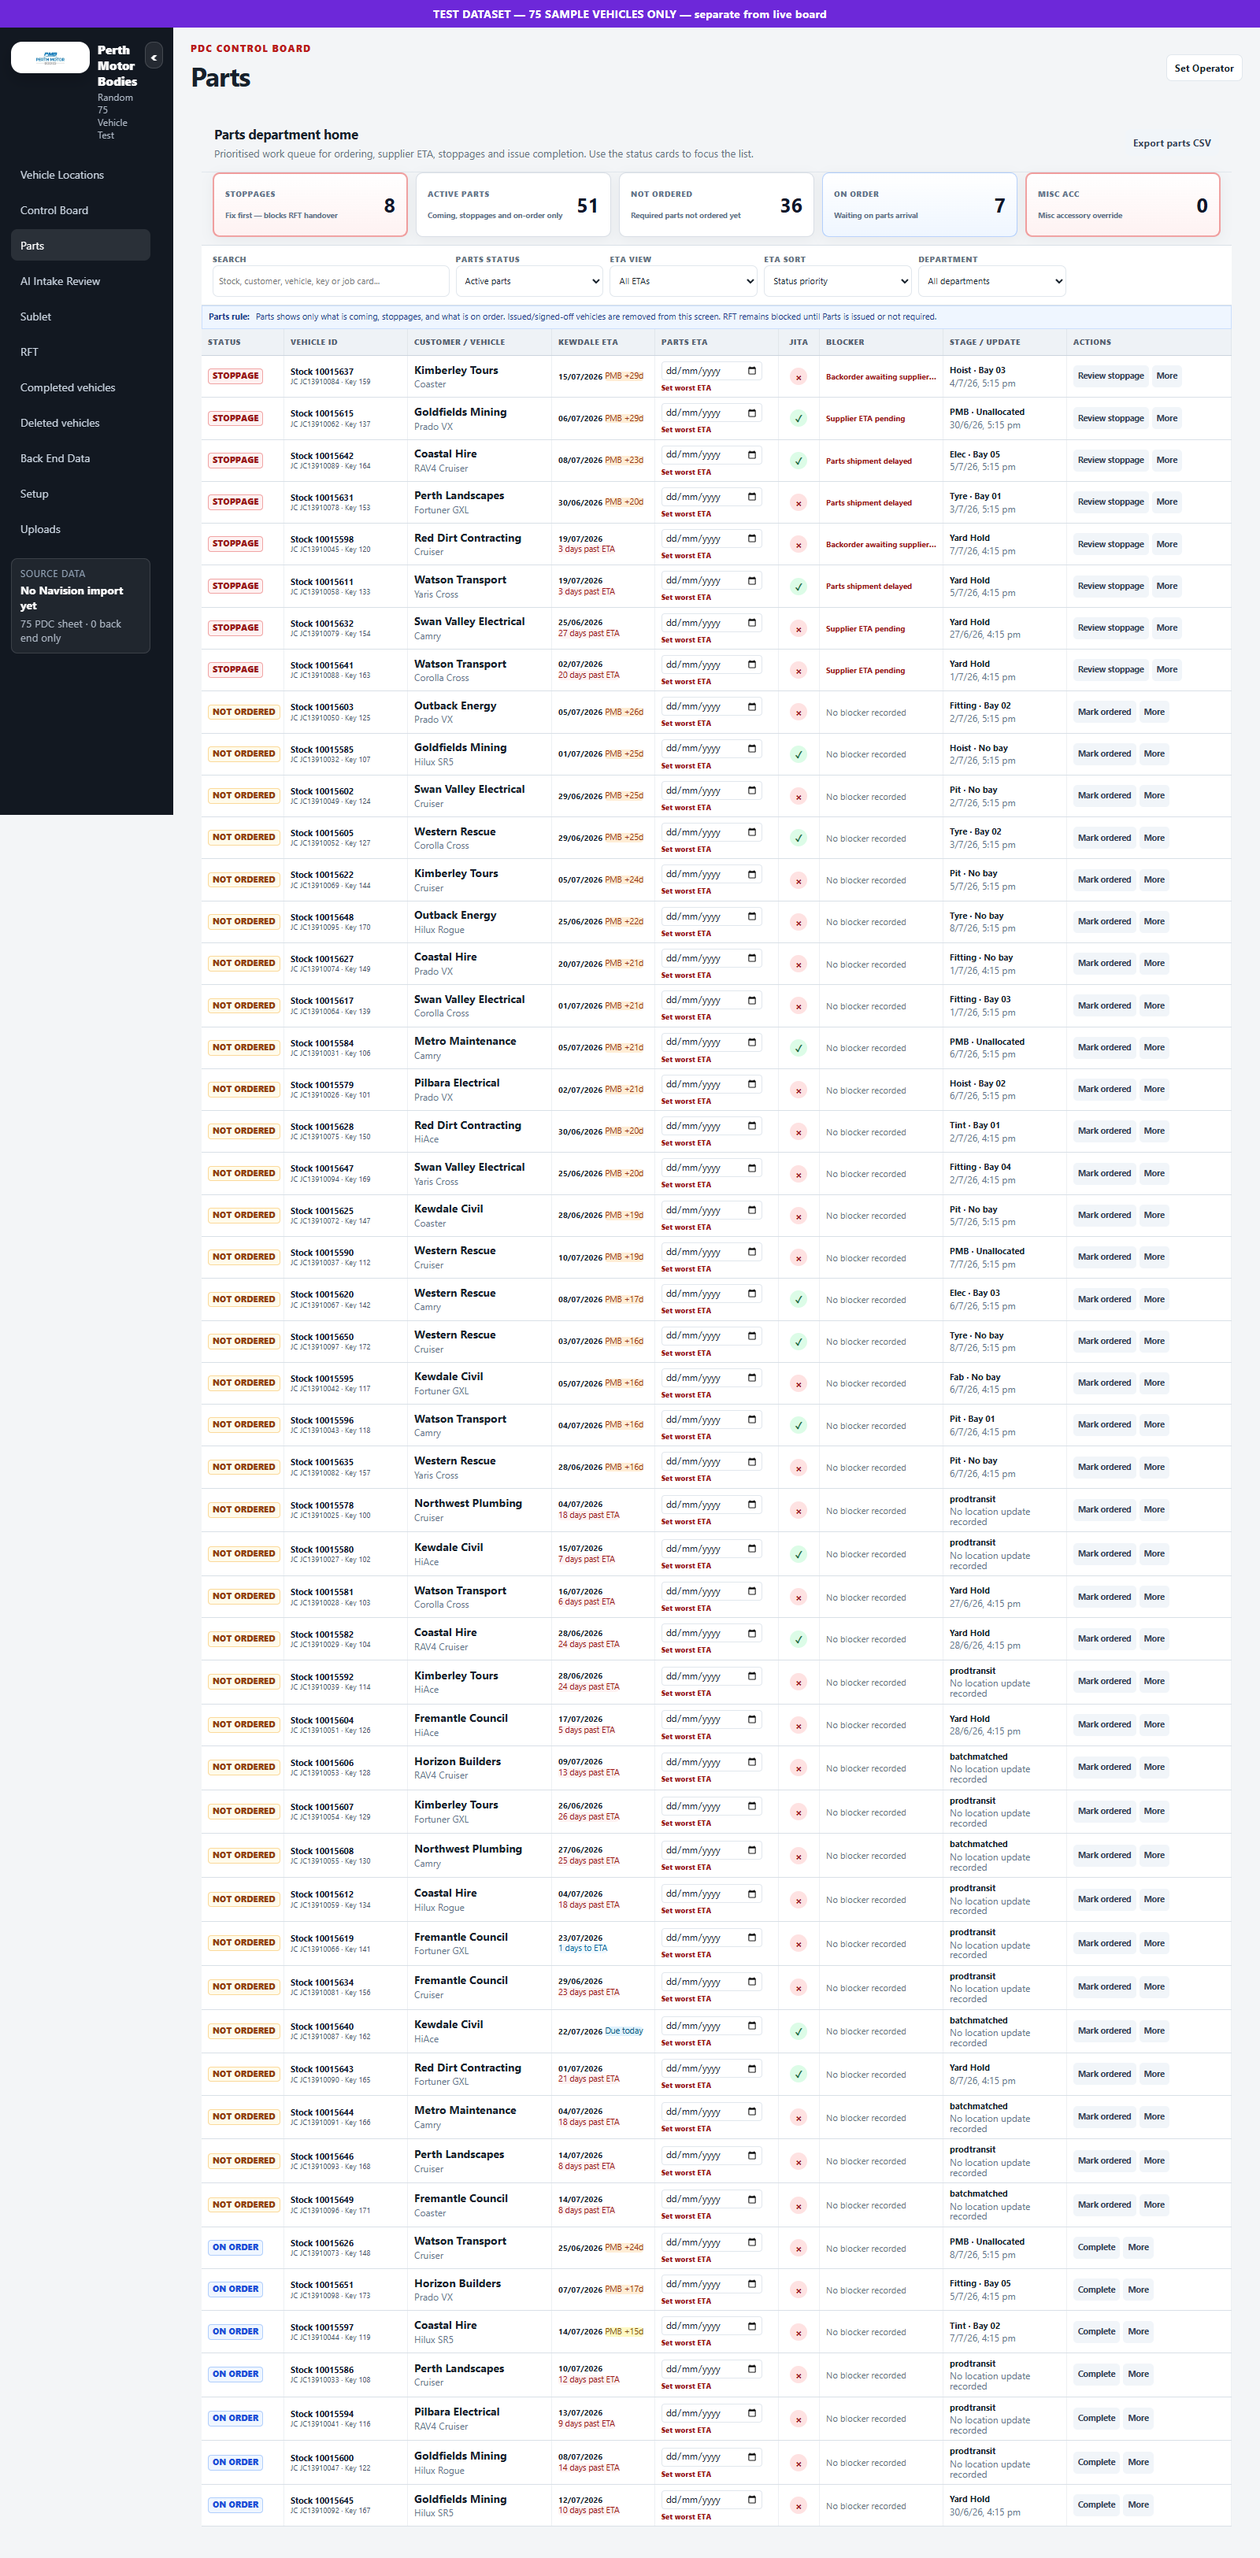
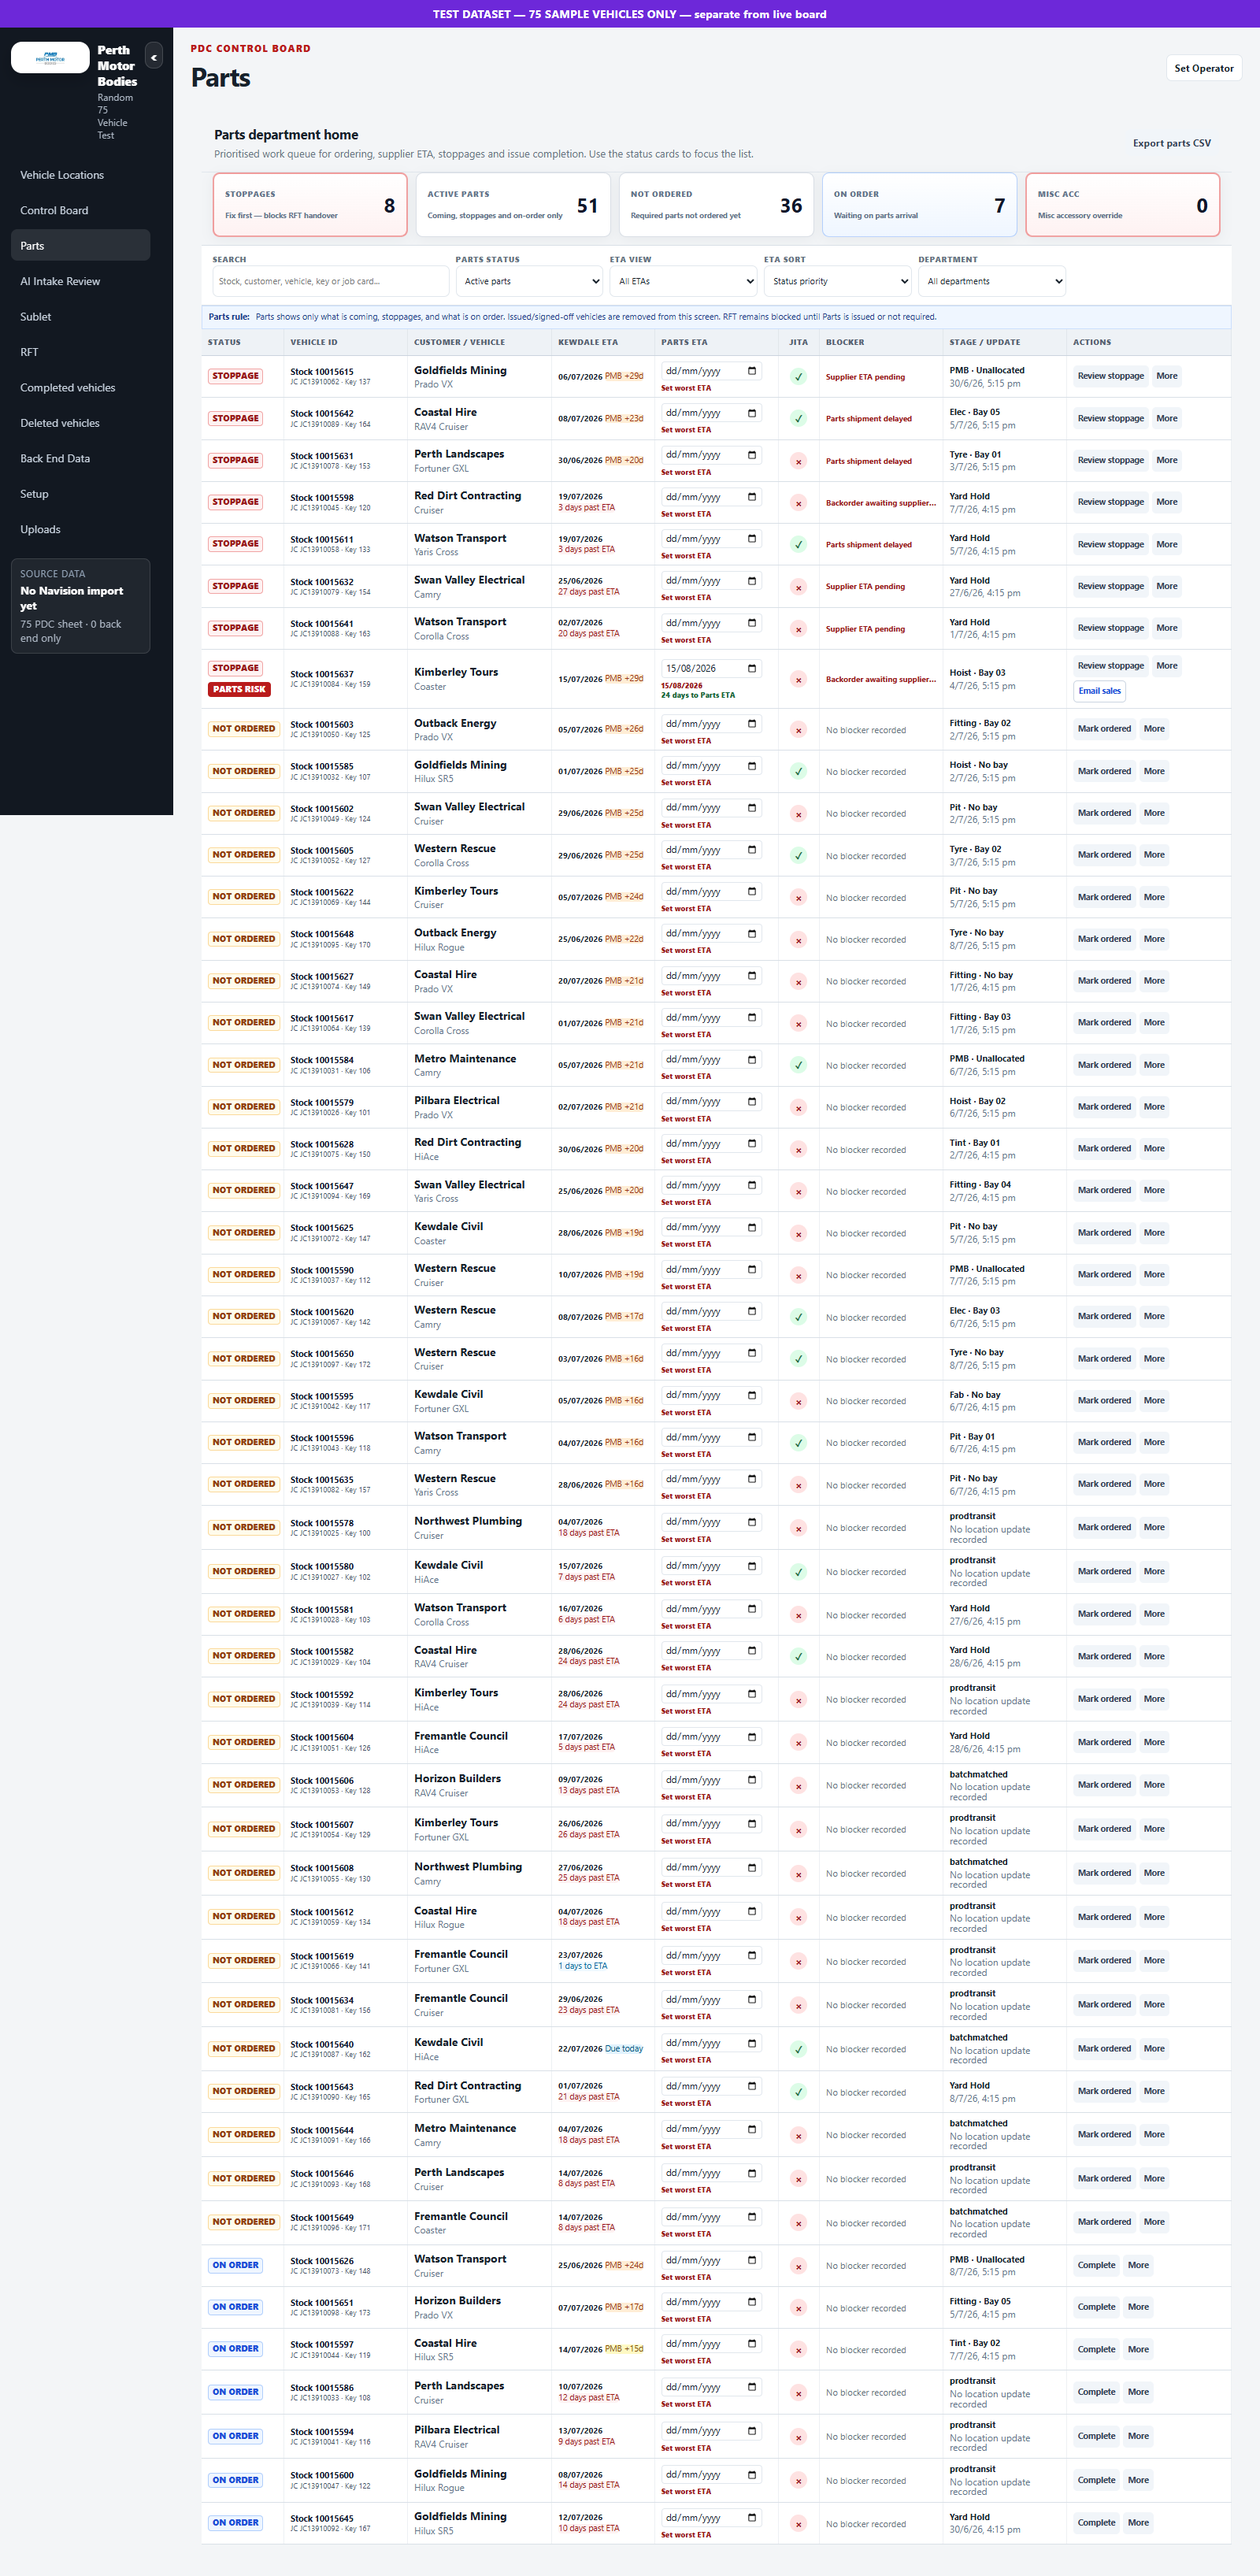
fix: close operational readiness review findings

diff --git a/scripts/test_operational_ui_regression.js b/scripts/test_operational_ui_regression.js
@@ -11,6 +11,10 @@ const views = ['dashboard','workflow','parts','emailreview','sublet','rft','comp
     const errors = [];
     page.on('pageerror', error => errors.push(String(error.message || error)));
     await page.goto(url, { waitUntil: 'networkidle', timeout: 60000 });
+    await page.evaluate(() => {
+      const vehicle = typeof partsDepartmentRows === 'function' ? partsDepartmentRows()[0] : null;
+      if (vehicle) vehicle.pdcPartsWorstEta = '2026-08-15';
+    });
     for (const view of views) {
       await page.locator(`.nav-item[data-view="${view}"]`).click();
       await page.waitForFunction(expected => document.querySelector('.view.active')?.id === expected, view);
@@ -18,15 +22,28 @@ const views = ['dashboard','workflow','parts','emailreview','sublet','rft','comp
         const active = document.querySelector('.view.active');
         const partsWrap = expected === 'parts' ? document.querySelector('.parts-table-wrap') : null;
         const wrapStyle = partsWrap ? getComputedStyle(partsWrap) : null;
+        const partsCells = expected === 'parts' ? [...document.querySelectorAll('.parts-queue-row td')] : [];
+        const emailSales = expected === 'parts' ? document.querySelector('[data-parts-eta-email]') : null;
+        const statusOverlap = expected === 'parts' ? [...document.querySelectorAll('.parts-queue-row td:first-child')].some(cell => {
+          const pill = cell.querySelector('.parts-status-pill');
+          if (!pill) return false;
+          return pill.getBoundingClientRect().right > cell.getBoundingClientRect().right + 1;
+        }) : false;
         return {
           view: active?.id || '',
           bodyHorizontalOverflow: Math.max(document.body.scrollWidth, document.documentElement.scrollWidth) - document.documentElement.clientWidth,
           partsNestedVerticalScroll: Boolean(partsWrap && partsWrap.scrollHeight > partsWrap.clientHeight + 1 && /auto|scroll/.test(wrapStyle.overflowY)),
+          partsCellOverflow: partsCells.reduce((max, cell) => Math.max(max, cell.scrollWidth - cell.clientWidth), 0),
+          partsStatusOverlap: statusOverlap,
+          emailSalesAtRowEnd: Boolean(emailSales && emailSales.closest('td') === emailSales.closest('tr')?.lastElementChild),
           emptyActiveView: !active || active.getBoundingClientRect().height < 60,
         };
       }, view);
       if (state.bodyHorizontalOverflow > 2) throw new Error(`${viewport.width}px ${view}: page overflows horizontally by ${state.bodyHorizontalOverflow}px`);
       if (state.partsNestedVerticalScroll) throw new Error(`${viewport.width}px Parts: nested vertical table scrolling remains`);
+      if (state.partsCellOverflow > 1) throw new Error(`${viewport.width}px Parts: table cell content overflows by ${state.partsCellOverflow}px`);
+      if (state.partsStatusOverlap) throw new Error(`${viewport.width}px Parts: status pill overlaps the next column`);
+      if (view === 'parts' && !state.emailSalesAtRowEnd) throw new Error(`${viewport.width}px Parts: compact Email sales action is not demonstrated at row end`);
       if (state.emptyActiveView) throw new Error(`${viewport.width}px ${view}: active view is unexpectedly empty`);
       results.push({ viewport: viewport.width, ...state });
     }

diff --git a/styles.css b/styles.css
@@ -11583,15 +11583,15 @@ html[data-row-width="xl"] {
   isolation: auto;
 }
 .parts-queue-table { min-width: 0; width: 100%; table-layout: fixed; }
-.parts-queue-table th:nth-child(1), .parts-queue-table td:nth-child(1) { width: 8%; }
-.parts-queue-table th:nth-child(2), .parts-queue-table td:nth-child(2) { width: 12%; }
-.parts-queue-table th:nth-child(3), .parts-queue-table td:nth-child(3) { width: 14%; }
+.parts-queue-table th:nth-child(1), .parts-queue-table td:nth-child(1) { width: 11.5%; }
+.parts-queue-table th:nth-child(2), .parts-queue-table td:nth-child(2) { width: 11%; }
+.parts-queue-table th:nth-child(3), .parts-queue-table td:nth-child(3) { width: 11%; }
 .parts-queue-table th:nth-child(4), .parts-queue-table td:nth-child(4) { width: 10%; }
-.parts-queue-table th:nth-child(5), .parts-queue-table td:nth-child(5) { width: 12%; }
+.parts-queue-table th:nth-child(5), .parts-queue-table td:nth-child(5) { width: 15%; }
 .parts-queue-table th:nth-child(6), .parts-queue-table td:nth-child(6) { width: 44px !important; }
-.parts-queue-table th:nth-child(7), .parts-queue-table td:nth-child(7) { width: 12%; }
-.parts-queue-table th:nth-child(8), .parts-queue-table td:nth-child(8) { width: 12%; }
-.parts-queue-table th:nth-child(9), .parts-queue-table td:nth-child(9) { width: 16%; }
+.parts-queue-table th:nth-child(7), .parts-queue-table td:nth-child(7) { width: 10.5%; }
+.parts-queue-table th:nth-child(8), .parts-queue-table td:nth-child(8) { width: 11%; }
+.parts-queue-table th:nth-child(9), .parts-queue-table td:nth-child(9) { width: 14%; }
 .parts-queue-row > td { height: 46px; padding: 5px 7px !important; }
 .parts-action-group {
   min-width: 0;
@@ -11621,8 +11621,19 @@ html[data-row-width="xl"] {
   .parts-queue-table { font-size: .67rem; }
   .parts-queue-row > td { padding-inline: 4px !important; }
   .parts-action-group { flex-wrap: wrap; }
-  .parts-action-primary, .parts-action-group { gap: 3px; }
+  .parts-action-primary { flex-wrap: wrap; white-space: normal; }
+  .parts-action-primary, .parts-action-group { gap: 3px; min-width: 0; }
   .parts-queue-row .small-button { padding-inline: 4px; }
+  .parts-queue-status-cell,
+  .parts-status-pill,
+  .parts-eta,
+  .parts-worst-eta-wrap,
+  .parts-worst-eta-details,
+  .parts-queue-blocker,
+  .parts-queue-stage { min-width: 0; max-width: 100%; overflow-wrap: anywhere; }
+  .parts-status-pill { white-space: normal; }
+  .parts-worst-eta,
+  .parts-worst-eta input { width: 100%; min-width: 0; max-width: 100%; }
 }
 
 

diff --git a/test_workshop_yh_it_eta.js b/test_workshop_yh_it_eta.js
@@ -66,6 +66,10 @@ const laterEtaVehicle = { ...it, kewdaleEta: '23/07/2026' };
 const risk = planner.workshopEtaRiskForEntry(existing, laterEtaVehicle);
 assert.ok(risk && risk.reason === 'before_eta', 'Later IT ETA must flag the existing booking for review without moving or deleting it');
 assert.strictEqual(existing.startAt, new Date(2026, 6, 22, 8, 0).toISOString(), 'Risk calculation must not move the booking');
+const missingEtaRisk = planner.workshopEtaRiskForEntry(existing, { ...it, kewdaleEta: '' });
+assert.ok(missingEtaRisk && missingEtaRisk.reason === 'missing_eta', 'Removing an IT ETA must keep the existing booking visibly at risk for review');
+const invalidEtaRisk = planner.workshopEtaRiskForEntry(existing, { ...it, kewdaleEta: '31/02/2026' });
+assert.ok(invalidEtaRisk && invalidEtaRisk.reason === 'invalid_eta', 'An invalid IT ETA must keep the existing booking visibly at risk for review');
 assert.strictEqual(planner.workshopEtaRiskForEntry({ ...existing, vehicleKey: yh.id }, { ...yh, kewdaleEta: '24/07/2026' }), null, 'YH ETA changes must not create scheduling risk');
 
 const appSource = fs.readFileSync(path.join(__dirname, 'app.js'), 'utf8');
@@ -81,5 +85,7 @@ assert.ok(migration.includes("v_new_status:=case when v_location='IT'"), 'Later 
 assert.ok(migration.includes("'eta_risk_changed'"), 'ETA risk transitions must retain booking-history audit evidence');
 assert.ok(migration.includes('set search_path = pg_catalog, public, extensions'), 'Redefined scheduling RPC must retain hardened SECURITY DEFINER search path');
 assert.ok(!migration.includes('current_location ='), 'Scheduling migration must not mutate vehicle location');
+assert.ok(!/\bpmb_stage\s*=/.test(migration), 'Scheduling migration must not mutate the production bucket');
+assert.ok(!/\bvisible_on_board\s*=/.test(migration), 'Scheduling migration must not mutate board visibility');
 assert.ok(migration.includes('revoke all on function public.workshop_enforce_vehicle_eta()'), 'Trigger helpers must not be directly executable by authenticated clients');
-console.log('Workshop YH/IT ETA regression: 34 assertions passed.');
+console.log('Workshop YH/IT ETA regression: 38 assertions passed.');

diff --git a/test_parts_vehicle_locations_layout.js b/test_parts_vehicle_locations_layout.js
@@ -15,7 +15,11 @@ assert.match(css, /\.parts-queue-table \{ min-width: 0; width: 100%; table-layou
 assert.match(css, /\.parts-queue-table th:nth-child\(6\), \.parts-queue-table td:nth-child\(6\) \{ width: 44px !important; \}/);
 assert.match(css, /\.parts-action-group \{[\s\S]*?display: flex;[\s\S]*?justify-content: flex-start;/);
 assert.match(css, /\.parts-email-sales-secondary \{[\s\S]*?width: auto;[\s\S]*?border-top: 0;/);
-assert.ok(!/\.parts-email-sales-secondary \{[^}]*justify-content: flex-end;[^}]*\}/s.test(css.slice(css.indexOf('Combined staging remediation'))));
+const operationalCssStart = css.indexOf('Operational readiness — Parts follows the Vehicle Locations continuous page table');
+assert.ok(operationalCssStart >= 0, 'Operational-readiness Parts override block must exist');
+assert.ok(!/\.parts-email-sales-secondary \{[^}]*justify-content: flex-end;[^}]*\}/s.test(css.slice(operationalCssStart)));
+assert.match(css, /@media \(max-width: 1180px\) \{[\s\S]*?\.parts-action-primary \{ flex-wrap: wrap; white-space: normal; \}/);
+assert.match(css, /\.parts-worst-eta input \{ width: 100%; min-width: 0; max-width: 100%; \}/);
 assert.match(desktopCss, /\.parts-queue-table \{[\s\S]*?min-width: 0;/);
 assert.doesNotMatch(desktopCss, /\.parts-queue-table \{[\s\S]*?min-width: 1480px;/);
 assert.match(desktopCss, /\.parts-queue-table \.parts-action-group \{[\s\S]*?display: flex !important;[\s\S]*?flex-wrap: wrap !important;/);

diff --git a/workshop-planner.js b/workshop-planner.js
@@ -2469,7 +2469,7 @@ function workshopRequireEtaSchedule(vehicle = {}, scheduledStartAt = '') {
 function workshopEtaRiskForEntry(entry = {}, vehicle = workshopVehicle(entry.vehicleKey)) {
   if (!vehicle || entry.status === 'completed') return null;
   const result = workshopEtaScheduleValidation(vehicle, entry.startAt || entry.scheduledStartAt || '');
-  return result.required && !result.ok && result.reason === 'before_eta' ? result : null;
+  return result.required && !result.ok ? result : null;
 }
 
 function workshopVehicleSearchText(vehicle = {}) {
